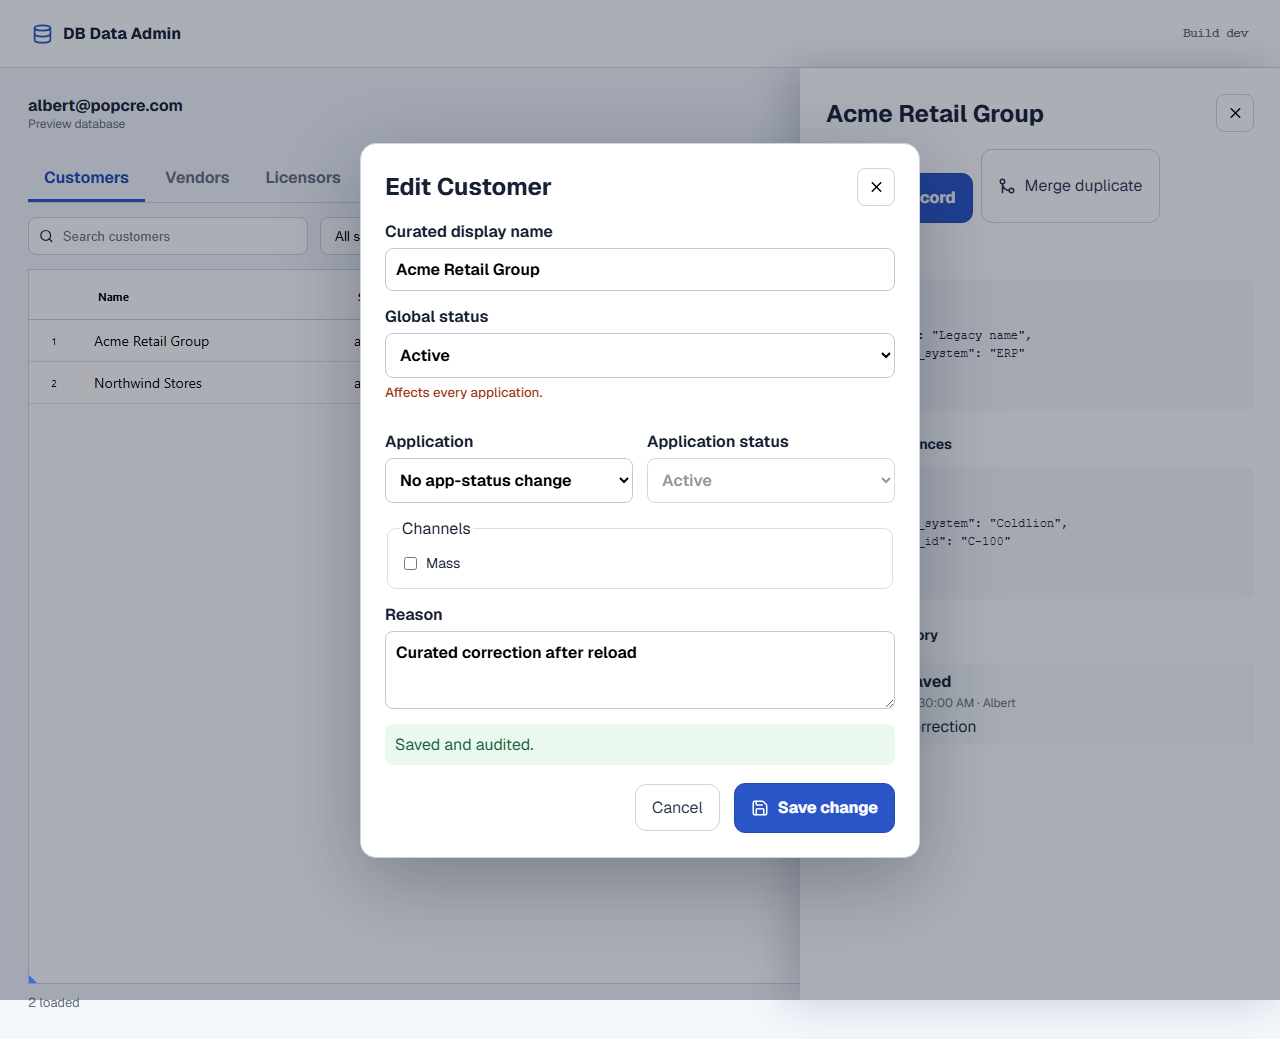
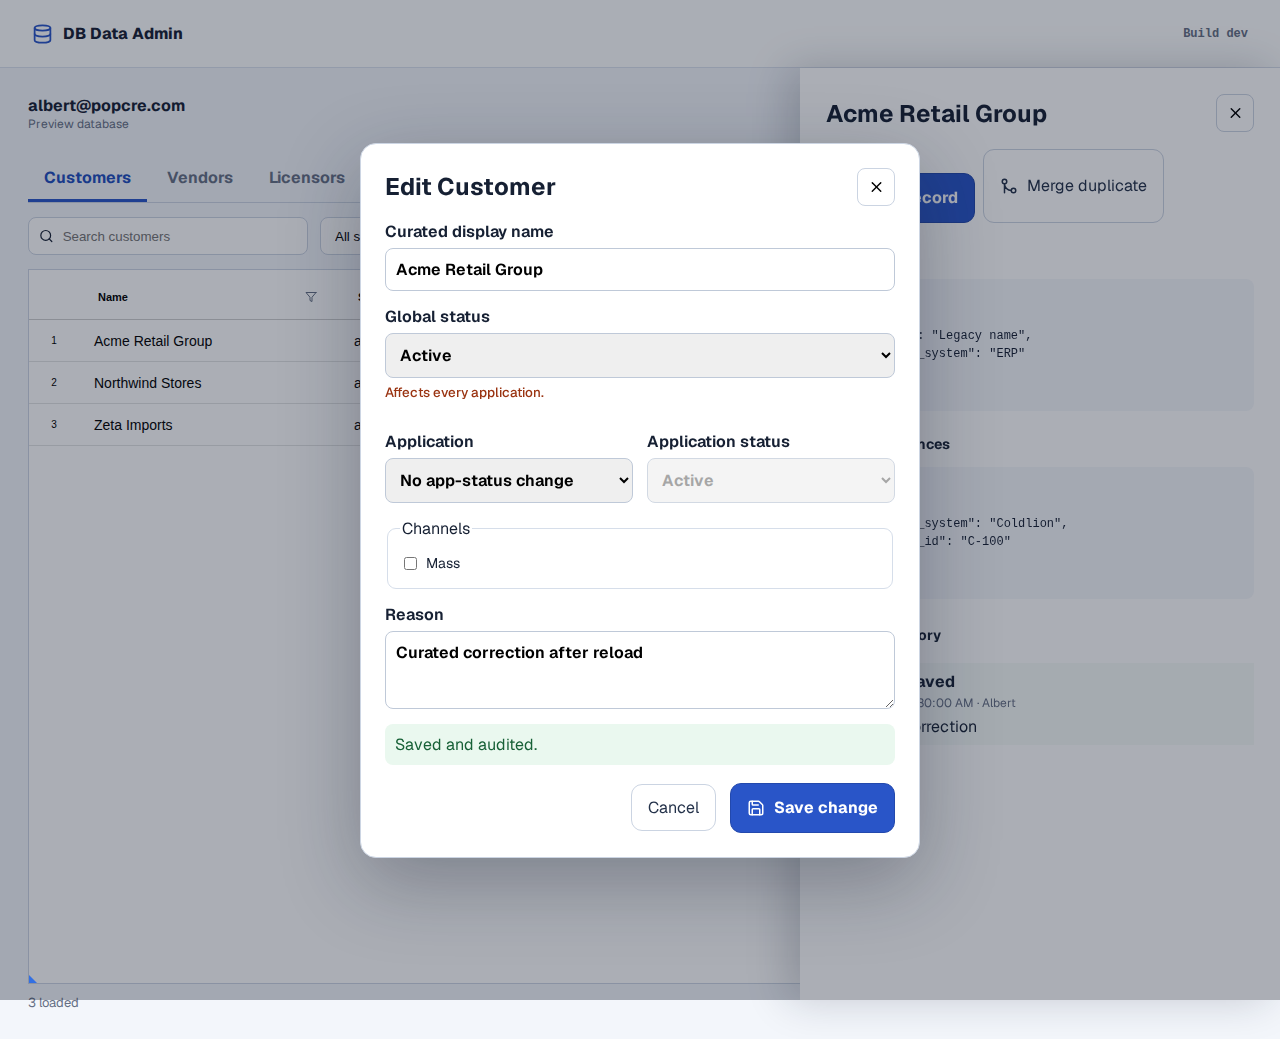
fix(db-data-admin): show canonical name when no display_name override
The Customers/Vendors grid Name column rendered the raw `display_name`
field. That column is an optional curated override, and most records
carry only the canonical `name`, so nearly every row displayed a blank
Name while still sorting into its correct alphabetical position — the
list RPC already sorts on `coalesce(display_name, name)`.

Render a derived `name_display` value instead, resolved in
`getCellDisplayValue`. That is the single chokepoint shared by the row
source, the distinct-value list, the text filter, and the set filter, so
the Name column now displays, filters, and lists consistently. Sorting is
RevoGrid client-side on the same value, so no RPC contract changes.

A present-but-empty override falls through to `name`, which is why this
cannot use `??`.

The raw `display_name` field is deliberately left untouched on the row so
RecordEditor keeps distinguishing "no override set" from an override, and
its unchanged-field check still sends null instead of writing the
fallback name in as a new override.

Verification screenshots are regenerated by the Playwright run.

diff --git a/apps/db-data-admin/tests/browser/grid.spec.ts b/apps/db-data-admin/tests/browser/grid.spec.ts
@@ -3,6 +3,10 @@ import { expect, test, type Page, type Route } from '@playwright/test'
 const customers = [
   { id: '11111111-1111-1111-1111-111111111111', display_name: 'Acme Retail', status: 'active', crm_status: 'active', pm_status: 'active', dam_status: 'inactive', plm_status: 'ACTIVE', erp_active: true, alias_count: 2, updated_at: '2026-07-22T12:00:00Z' },
   { id: '22222222-2222-2222-2222-222222222222', display_name: 'Northwind Stores', status: 'active', crm_status: 'active', pm_status: 'inactive', dam_status: 'active', plm_status: null, erp_active: true, alias_count: 1, updated_at: '2026-07-21T12:00:00Z' },
+  // The common shape in production: no curated display_name override, only the
+  // canonical name. The Name column must still show it (regression: the column
+  // read display_name directly and left these rows blank).
+  { id: '55555555-5555-5555-5555-555555555555', name: 'Zeta Imports', display_name: null, status: 'active', crm_status: 'active', pm_status: 'active', dam_status: 'active', plm_status: null, erp_active: true, alias_count: 0, updated_at: '2026-07-19T12:00:00Z' },
 ]
 const vendors = [{ id: '33333333-3333-3333-3333-333333333333', display_name: 'Atlas Manufacturing', status: 'active', crm_status: 'active', pm_status: 'active', dam_status: 'active', plm_status: null, erp_active: true, alias_count: 3, updated_at: '2026-07-20T12:00:00Z' }]
 
@@ -74,6 +78,18 @@ test('renders persistent customer and vendor grids with lazy details', async ({ 
   await expect(page.getByRole('button', { name: 'Vendors' })).toHaveClass(/active/)
   await expect(page.getByText('Atlas Manufacturing')).toBeVisible()
   await page.screenshot({ path: '../../docs/verification/db-data-admin-step7-vendor-wide.png', fullPage: true })
+})
+
+test('shows the canonical name when no display_name override is set', async ({ page }) => {
+  await mockAdmin(page); await page.goto('/')
+  await expect(page.locator('revo-grid')).toBeVisible()
+  await expect(page.getByRole('gridcell', { name: 'Zeta Imports' })).toBeVisible()
+  // The Name filter reads the same effective value, so it matches too. Scope to
+  // the grid: the filter's autocomplete dropdown repeats the name as an option.
+  const filter = page.getByRole('combobox', { name: 'Filter Name' })
+  await filter.fill('Zeta'); await page.waitForTimeout(350)
+  await expect(page.getByRole('gridcell', { name: 'Zeta Imports' })).toBeVisible()
+  await expect(page.getByRole('gridcell', { name: 'Acme Retail' })).toHaveCount(0)
 })
 
 test('previews and explicitly confirms a protected duplicate merge', async ({ page }) => {

diff --git a/apps/db-data-admin/src/lib/grid-filters.test.ts b/apps/db-data-admin/src/lib/grid-filters.test.ts
@@ -35,6 +35,41 @@ describe('getCellDisplayValue / plm_display', () => {
   })
 })
 
+// Most records carry only the canonical `name`; `display_name` is an optional
+// override. The Name column renders `name_display`, which must coalesce the two
+// exactly as the list RPC's sort key does.
+const nameRows: AdminRow[] = [
+  { id: 'a', name: 'Aldi', display_name: 'Aldi Süd' },
+  { id: 'b', name: '4SGM', display_name: null as unknown as string },
+  { id: 'c', name: 'Zeta Imports' },
+  { id: 'd', name: 'Blank Co', display_name: '' },
+  { id: 'e', name: null as unknown as string },
+]
+
+describe('getCellDisplayValue / name_display', () => {
+  it('prefers the display_name override when one is set', () => {
+    expect(getCellDisplayValue(nameRows[0]!, 'name_display')).toBe('Aldi Süd')
+  })
+
+  it('falls back to the canonical name when the override is null or empty', () => {
+    expect(getCellDisplayValue(nameRows[1]!, 'name_display')).toBe('4SGM')
+    expect(getCellDisplayValue(nameRows[2]!, 'name_display')).toBe('Zeta Imports')
+    expect(getCellDisplayValue(nameRows[3]!, 'name_display')).toBe('Blank Co')
+  })
+
+  it('is blank only when neither name is present', () => {
+    expect(getCellDisplayValue(nameRows[4]!, 'name_display')).toBe(BLANK_VALUE)
+  })
+
+  it('filters and lists distinct values on the effective name', () => {
+    expect(getDistinctColumnValues(nameRows, 'name_display')).toEqual([
+      BLANK_VALUE, '4SGM', 'Aldi Süd', 'Blank Co', 'Zeta Imports',
+    ])
+    expect(textMatch(nameRows[1]!, { name_display: '4sg' })).toBe(true)
+    expect(setMatch(nameRows[2]!, { name_display: new Set(['Zeta Imports']) })).toBe(true)
+  })
+})
+
 describe('getDistinctColumnValues', () => {
   it('derives sorted distinct display values including an explicit blank entry', () => {
     const names = getDistinctColumnValues(rows, 'display_name')

diff --git a/apps/db-data-admin/src/lib/grid-filters.ts b/apps/db-data-admin/src/lib/grid-filters.ts
@@ -9,8 +9,18 @@ export const BLANK_LABEL = '(Blanks)'
 /**
  * Display value for a grid cell — matches what the RevoGrid row source shows.
  * PLM uses the same linked/status mapping applied when building visible rows.
+ * Name falls back to the canonical `name` when no `display_name` override is
+ * set, mirroring the list RPC's `coalesce(display_name, name)` sort key — most
+ * records carry only `name`, so rendering the raw override left them blank.
  */
 export function getCellDisplayValue(row: AdminRow, prop: string): string {
+  if (prop === 'name_display') {
+    // An override that is present but empty must still fall through to `name`,
+    // so this cannot use `??` — only a non-empty override wins.
+    const override = row.display_name == null ? '' : String(row.display_name)
+    if (override !== '') return override
+    return row.name == null ? BLANK_VALUE : String(row.name)
+  }
   if (prop === 'plm_display') {
     if (row.plm_linked === false) return 'Not linked'
     if (row.plm_status == null) return 'Unknown'

diff --git a/apps/db-data-admin/src/DataAdmin.tsx b/apps/db-data-admin/src/DataAdmin.tsx
@@ -251,7 +251,7 @@ export function FilterHeader(props: HeaderProps) {
 }
 
 const baseColumns: ColumnRegular[] = [
-  { prop: 'display_name', name: 'Name', size: 260, sortable: true },
+  { prop: 'name_display', name: 'Name', size: 260, sortable: true },
   { prop: 'status', name: 'Status', size: 105, sortable: true },
   { prop: 'crm_status', name: 'CRM', size: 105 },
   { prop: 'pm_status', name: 'PM/PIM', size: 105 },
@@ -372,7 +372,11 @@ export function DataAdmin({ client, email, onSignOut }: Props) {
   const visibleRows = useMemo(
     () => rows
       .filter(row => rowMatchesFilters(row, activeFilters, setFiltersState))
-      .map(row => ({ ...row, plm_display: getCellDisplayValue(row, 'plm_display') })),
+      .map(row => ({
+        ...row,
+        name_display: getCellDisplayValue(row, 'name_display'),
+        plm_display: getCellDisplayValue(row, 'plm_display'),
+      })),
     [rows, activeFilters, setFiltersState],
   )
 
